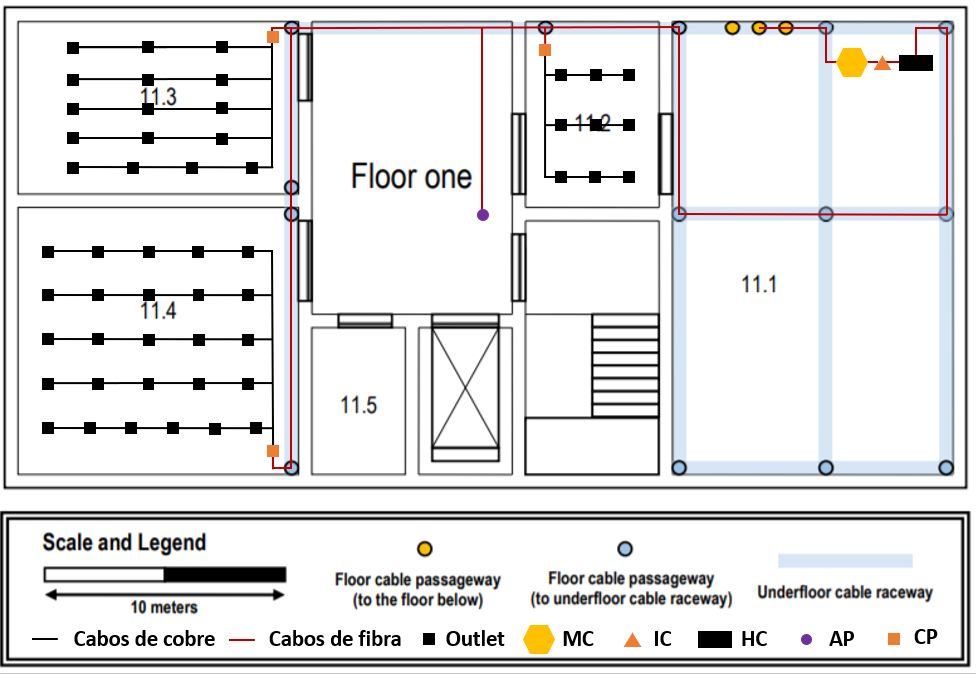
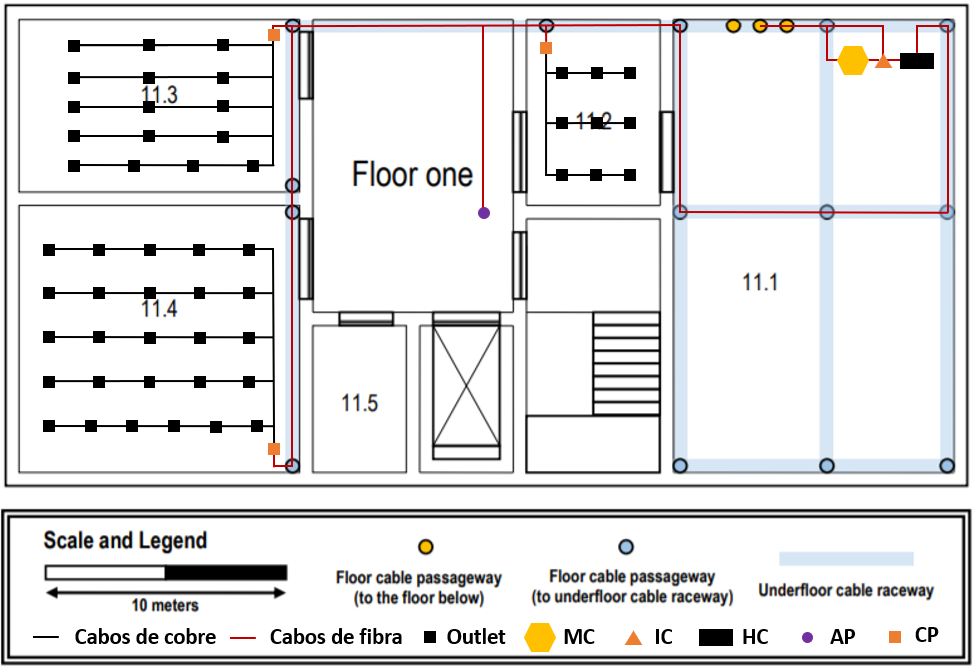
Justificações.

diff --git a/doc/sprint1/1190429/README.md b/doc/sprint1/1190429/README.md
@@ -17,7 +17,7 @@ De forma a ser possível alcançar a redundância de cabos foram estabelecidas a
 * Edifício 4 para 5, onde o total de cabo corresponde a 167,69 metros.
 * Edifício 1 para 5, onde o total de cabo corresponde a 193,08 metros.
 
-Ligação para o edifício 1 tem aproximadamente 83,08 metros, logo no total, o backbone do campus tem cerca de 1520,00 metros. 
+Ligação do exterior para o edifício 1 tem aproximadamente 83,08 metros, logo no total, o backbone do campus tem cerca de 1520,00 metros. 
 
 As ligações anteriormente referidas são de fibra ótica monomodo, uma vez que é imune à dispersão e, por isso, permite taxas de dados mais altas e especialmente comprimentos de cabo mais longos.
 
@@ -50,7 +50,7 @@ Foi instalado neste espaço um CP devido ao número elevado de outlets, com form
 Na sala 10.2 como tem 131,575 m², serão necessários 26 outlets que foram distribuídos neste espaço tendo em conta que tem que existir sempre um outlet a menos de três metros de distância. 
 
 Neste espaço, também foram colocados o HC que cobre a área total do piso, com formato de rack de 19'', um patch panel de 12 portas, sendo utilizadas 2 portas para o IC e as restantes para cada CP do piso e um switch de 12 portas.
-
+A área coberta por cada HC deve ser menor que 1000 m². Assim, como as dimensões deste edifício são 40 x 20 metros, apenas é necessário existir um HC por piso que engloba toda a sua área.
 Para além do HC, foi instalado um CP devido ao número elevado de outlets, com formato de rack de 19'', um patch panel de 48 portas e um switch de 48 portas. 
 
 
@@ -59,6 +59,22 @@ Na sala 10.3 tal como referia no enunciado foram colocados 5 outlets na mesa que
 Para além dos outlets, como podemos observar na imagem acima representada foi instalado um AP no centro deste piso para que exista cobertura WiFi em toda a sua área. 
 Para perceber o número de AP a colocar no piso, usamos um raio 25 metros. 
 Como este piso tem as dimensões 40 x 20 metros, um AP por piso chega para assegurar a cobertura WiFi na área do piso.
+
+#### Metros de cabos necessários ####
+
+CP para Outlets: 717,66 metros.
+
+HP para AP: 31,98 metros.
+
+HC para CP: 22,45 metros.
+
+IC do piso 1 para HC: 18,23 metros.
+
+Exterior para MC: 12,71 metros.
+
+Nota: Nestas medidas apenas foi considerado um cabo por cada ligação.
+
+Nas ligações de fibra ótica monomodo, como são de cablagem dupla, no inventário iremos duplicar estes resultados aquando da soma.
 
 #### Inventário ####
 * 1 HC
@@ -72,6 +88,7 @@ Como este piso tem as dimensões 40 x 20 metros, um AP por piso chega para asseg
 * 1 AP
 * 47 Outlets
 * 717,66 metros de cabo CAT6A
+* 170,74 metros de fibra ótica monomodo
 
 # Piso 1 #
 
@@ -99,7 +116,7 @@ O MC tem um formato de rack de 19'', um patch panel de 12 portas, sendo utilizad
 O IC tem um formato de rack de 19'', um patch panel de 8 portas, sendo utilizadas 2 portas para cada HC do edifício e para o MC e um switch de 8 portas.
 
 O HC tem um formato de rack de 19'', um patch panel de 12 portas, sendo utilizadas 2 portas para o IC e as restantes para cada CP do piso e um switch de 12 portas.
-
+A área coberta por cada HC deve ser menor que 1000 m². Assim, como as dimensões deste edifício são 40 x 20 metros, apenas é necessário existir um HC por piso que engloba toda a sua área.
 
 Na sala 11.2 como tem 44,374 m², serão necessários 9 outlets que foram distribuídos neste espaço tendo em conta que tem que existir sempre um outlet a menos de três metros de distância.
 
@@ -120,6 +137,24 @@ No centro deste piso foi colocado também um AP de forma a garantir a cobertura 
 Para perceber o número de AP a colocar no piso, usamos um raio 25 metros. 
 Como este piso tem as dimensões 40 x 20 metros, um AP por piso chega para assegurar a cobertura WiFi na área do piso.
 
+#### Metros de cabos necessários ####
+
+CP para Outlets: 384,48 metros.
+
+HP para AP: 47,17 metros.
+
+HC para CP: 144,58 metros.
+
+IC para HC: 0,42 metros.
+
+MC para IC: 0,42 metros.
+
+MC para o exterior de forma a fazer a ligação aos outros ICs dos diversos edifícios do campus: 12,71 metros.
+
+Nota: Nestas medidas apenas foi considerado um cabo por cada ligação. 
+
+Nas ligações de fibra ótica monomodo, como são de cablagem dupla, no inventário iremos duplicar estes resultados aquando da soma.
+
 #### Inventário ####
 * 1 MC
     * 1 Patch Panel de 12 portas
@@ -136,9 +171,33 @@ Como este piso tem as dimensões 40 x 20 metros, um AP por piso chega para asseg
 * 1 AP
 * 52 Outlets
 * 384,48 metros de cabo CAT6A
+* 410,60 metros de fibra ótica monomodo
+
+
+#### Inventário Total do Edifício 1####
+* 1 MC
+  * 1 Patch Panel de 12 portas
+  * 1 Switch de 12 portas
+* 1 IC
+  * 1 Patch Panel de 8 portas
+  * 1 Switch de 8 portas  
+* 2 HC
+  * 2 Patch Panel de 12 portas
+  * 2 Switch de 12 portas
+* 5 CP
+  * 4 Patch Panel de 24 portas
+  * 4 Switch de 24 portas
+  * 1 Patch Panel de 48 portas
+  * 1 Switch de 48 portas
+* 2 AP
+* 99 Outlets
+* 11022,14 metros de cabo CAT6A
+* 581,34 metros de fibra ótica monomodo
 
 
 
 Nota: Toda a cablagem de fibra ótica refere-se à cablagem dupla de fibra ótica monomodo de modo a prevenir o sistema contra falhas de cabos.
+
+Por defeito, utilizamos CPs com 24 portas. Desta forma, permite que no futuro haja uma atualização dos equipamentos nas diferentes salas, assegurando a possibilidade de evolução do número de equipamentos.
 
 Os cabos de cobre usados são CAT6A, visto que cobrem sinais de frequência até 500MHz, são capazes de transmitir sinais até 10Gbps. O cabo CAT6A é usado para suportar taxas de dados em 100 metros.
